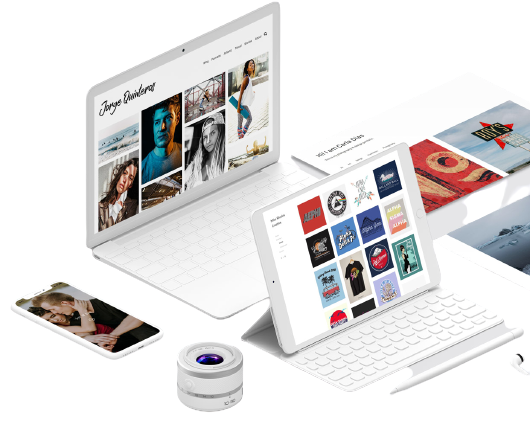
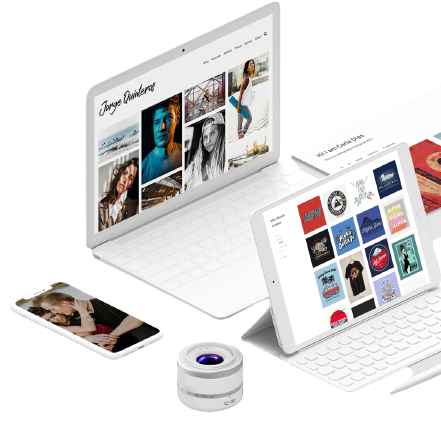
remove slider

diff --git a/index.html b/index.html
@@ -120,7 +120,7 @@
                                 data-type="text" 
                                 data-responsive_offset="on" 
                                 data-frames="[{&quot;delay&quot;:10,&quot;speed&quot;:1500,&quot;frame&quot;:&quot;0&quot;,&quot;from&quot;:&quot;y:[100%];z:0;rX:0deg;rY:0;rZ:0;sX:1;sY:1;skX:0;skY:0;opacity:0;&quot;,&quot;mask&quot;:&quot;x:0px;y:[100%];s:inherit;e:inherit;&quot;,&quot;to&quot;:&quot;o:1;&quot;,&quot;ease&quot;:&quot;Power2.easeInOut&quot;},{&quot;delay&quot;:&quot;wait&quot;,&quot;speed&quot;:1500,&quot;frame&quot;:&quot;999&quot;,&quot;to&quot;:&quot;y:[175%];&quot;,&quot;mask&quot;:&quot;x:inherit;y:inherit;s:inherit;e:inherit;&quot;,&quot;ease&quot;:&quot;Power2.easeInOut&quot;}]">
-                                <a class="more_btn" href="#">Get Started</a>
+                                <a class="more_btn" href="contact.html">Get Started</a>
                             </div>
                             <div class="tp-caption tp-resizeme single_img" 
                             data-x="['right','right','right','right','right','right']" 
@@ -190,7 +190,7 @@
                                 data-type="text" 
                                 data-responsive_offset="on" 
                                 data-frames="[{&quot;delay&quot;:10,&quot;speed&quot;:1500,&quot;frame&quot;:&quot;0&quot;,&quot;from&quot;:&quot;y:[100%];z:0;rX:0deg;rY:0;rZ:0;sX:1;sY:1;skX:0;skY:0;opacity:0;&quot;,&quot;mask&quot;:&quot;x:0px;y:[100%];s:inherit;e:inherit;&quot;,&quot;to&quot;:&quot;o:1;&quot;,&quot;ease&quot;:&quot;Power2.easeInOut&quot;},{&quot;delay&quot;:&quot;wait&quot;,&quot;speed&quot;:1500,&quot;frame&quot;:&quot;999&quot;,&quot;to&quot;:&quot;y:[175%];&quot;,&quot;mask&quot;:&quot;x:inherit;y:inherit;s:inherit;e:inherit;&quot;,&quot;ease&quot;:&quot;Power2.easeInOut&quot;}]">
-                                <a class="more_btn" href="#">Let's Talk</a>
+                                <a class="more_btn" href="contact.html">Let's Talk</a>
                             </div>
                             <div class="tp-caption tp-resizeme single_img" 
                             data-x="['right','right','right','right','right','right']" 
@@ -210,76 +210,7 @@
                             </div>
                         </div>
                     </li>
-                    <li data-index="rs-1589" data-transition="fade" data-slotamount="default" data-hideafterloop="0" data-hideslideonmobile="off"  data-easein="default" data-easeout="default" data-masterspeed="300" data-rotate="0"  data-saveperformance="off"  data-title="Creative" data-param1="01" data-param2="" data-param3="" data-param4="" data-param5="" data-param6="" data-param7="" data-param8="" data-param9="" data-param10="" data-description="">
-                    <!-- LAYERS -->
-                        <!-- LAYERS -->
-
-                        <!-- LAYER NR. 1 -->
-                        <div class="slider_text_box">
-                            <div class="tp-caption tp-resizeme first_text" 
-                            data-x="['left','left','left','left','15','center']" 
-                            data-hoffset="['0','80','80','0']" 
-                            data-y="['top','top','top','top']" 
-                            data-voffset="['400','400','400','250','180','180']" 
-                            data-fontsize="['72','72','72','50','50','30']"
-                            data-lineheight="['82','82','82','62','62','42']"
-                            data-width="['none']"
-                            data-height="none"
-                            data-whitespace="nowrape"
-                            data-type="text" 
-                            data-responsive_offset="on" 
-                            data-frames="[{&quot;delay&quot;:10,&quot;speed&quot;:1500,&quot;frame&quot;:&quot;0&quot;,&quot;from&quot;:&quot;y:[-100%];z:0;rX:0deg;rY:0;rZ:0;sX:1;sY:1;skX:0;skY:0;&quot;,&quot;mask&quot;:&quot;x:0px;y:0px;s:inherit;e:inherit;&quot;,&quot;to&quot;:&quot;o:1;&quot;,&quot;ease&quot;:&quot;Power2.easeInOut&quot;},{&quot;delay&quot;:&quot;wait&quot;,&quot;speed&quot;:1500,&quot;frame&quot;:&quot;999&quot;,&quot;to&quot;:&quot;y:[175%];&quot;,&quot;mask&quot;:&quot;x:inherit;y:inherit;s:inherit;e:inherit;&quot;,&quot;ease&quot;:&quot;Power2.easeInOut&quot;}]"
-                            data-textAlign="['left','left','left','left','left','center']">Choose a powerful <br />design for your business</div>
-                            
-                            <div class="tp-caption tp-resizeme secand_text" 
-                                data-x="['left','left','left','left','15','center']" 
-                                data-hoffset="['0','80','80','0']" 
-                                data-y="['top','top','top','top']" 
-                                data-voffset="['575','575','575','400','320','300']"  
-                                data-fontsize="['24','24','24','18','16','16']"
-                                data-lineheight="['36','36','36','26','26','26']"
-                                data-width="['none','none','none','none','none']"
-                                data-height="none"
-                                data-whitespace="nowrape"
-                                data-type="text" 
-                                data-responsive_offset="on"
-                                data-transform_idle="o:1;"
-                                data-frames="[{&quot;delay&quot;:10,&quot;speed&quot;:1500,&quot;frame&quot;:&quot;0&quot;,&quot;from&quot;:&quot;y:[100%];z:0;rX:0deg;rY:0;rZ:0;sX:1;sY:1;skX:0;skY:0;opacity:0;&quot;,&quot;mask&quot;:&quot;x:0px;y:[100%];s:inherit;e:inherit;&quot;,&quot;to&quot;:&quot;o:1;&quot;,&quot;ease&quot;:&quot;Power2.easeInOut&quot;},{&quot;delay&quot;:&quot;wait&quot;,&quot;speed&quot;:1500,&quot;frame&quot;:&quot;999&quot;,&quot;to&quot;:&quot;y:[175%];&quot;,&quot;mask&quot;:&quot;x:inherit;y:inherit;s:inherit;e:inherit;&quot;,&quot;ease&quot;:&quot;Power2.easeInOut&quot;}]"
-                                data-textAlign="['left','left','left','left','left','center']">
-                            </div>
-                            
-                            <div class="tp-caption tp-resizeme" 
-                                data-x="['left','left','left','left','15','center']" data-hoffset="['0','80','80','0']" 
-                                data-y="['top','top','top','top']" 
-                                data-voffset="['670','670','670','480','370','350']" 
-                                data-fontsize="['14','14','14','14']"
-                                data-lineheight="['46','46','46','46']"
-                                data-width="none"
-                                data-height="none"
-                                data-whitespace="nowrap"
-                                data-type="text" 
-                                data-responsive_offset="on" 
-                                data-frames="[{&quot;delay&quot;:10,&quot;speed&quot;:1500,&quot;frame&quot;:&quot;0&quot;,&quot;from&quot;:&quot;y:[100%];z:0;rX:0deg;rY:0;rZ:0;sX:1;sY:1;skX:0;skY:0;opacity:0;&quot;,&quot;mask&quot;:&quot;x:0px;y:[100%];s:inherit;e:inherit;&quot;,&quot;to&quot;:&quot;o:1;&quot;,&quot;ease&quot;:&quot;Power2.easeInOut&quot;},{&quot;delay&quot;:&quot;wait&quot;,&quot;speed&quot;:1500,&quot;frame&quot;:&quot;999&quot;,&quot;to&quot;:&quot;y:[175%];&quot;,&quot;mask&quot;:&quot;x:inherit;y:inherit;s:inherit;e:inherit;&quot;,&quot;ease&quot;:&quot;Power2.easeInOut&quot;}]">
-                                <a class="more_btn" href="#">Discover</a>
-                            </div>
-                            <div class="tp-caption tp-resizeme single_img" 
-                            data-x="['right','right','right','right','right','right']" 
-                            data-hoffset="['0','0','0','0']" 
-                            data-y="['top','top','top','top']" 
-                            data-voffset="['180','180','180','180','0']" 
-                            data-fontsize="['65','65','60','40','25']"
-                            data-lineheight="['75','75','75','50','35']"
-                            data-width="['485','485','485','485','485']"
-                            data-height="none"
-                            data-whitespace="normal"
-                            data-type="text" 
-                            data-responsive_offset="on" 
-                            data-frames="[{&quot;delay&quot;:10,&quot;speed&quot;:1500,&quot;frame&quot;:&quot;0&quot;,&quot;from&quot;:&quot;y:[-100%];z:0;rX:0deg;rY:0;rZ:0;sX:1;sY:1;skX:0;skY:0;&quot;,&quot;mask&quot;:&quot;x:0px;y:0px;s:inherit;e:inherit;&quot;,&quot;to&quot;:&quot;o:1;&quot;,&quot;ease&quot;:&quot;Power2.easeInOut&quot;},{&quot;delay&quot;:&quot;wait&quot;,&quot;speed&quot;:1500,&quot;frame&quot;:&quot;999&quot;,&quot;to&quot;:&quot;y:[175%];&quot;,&quot;mask&quot;:&quot;x:inherit;y:inherit;s:inherit;e:inherit;&quot;,&quot;ease&quot;:&quot;Power2.easeInOut&quot;}]"
-                            data-textAlign="['left','left','left','left','left','center']">
-                                <img src="img/home-slider/home.png" alt="">
-                            </div>
-                        </div>
-                    </li>
+                    
                 </ul>
             </div>
         </section>
